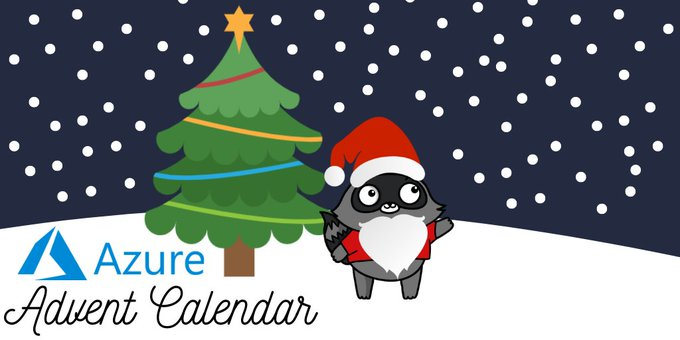
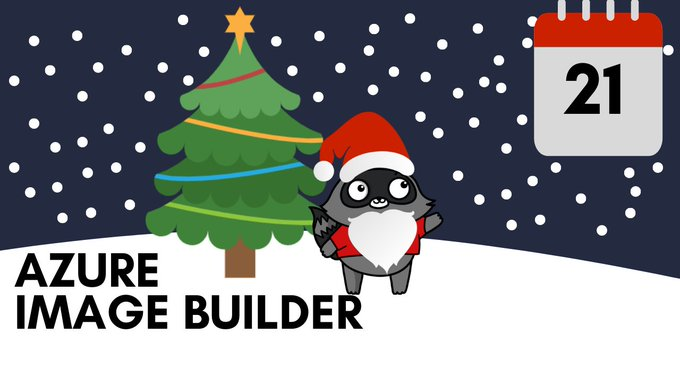
Updating image and removing draft status.

diff --git a/content/posts/azure-image-builder.md b/content/posts/azure-image-builder.md
@@ -1,7 +1,6 @@
 ---
 title: "Azure Image Builder"
-date: 2019-12-16T20:44:41-05:00
-draft: true
+date: 2019-12-20T16:40:41-05:00
 tags:
 - Azure
 - Cloud
